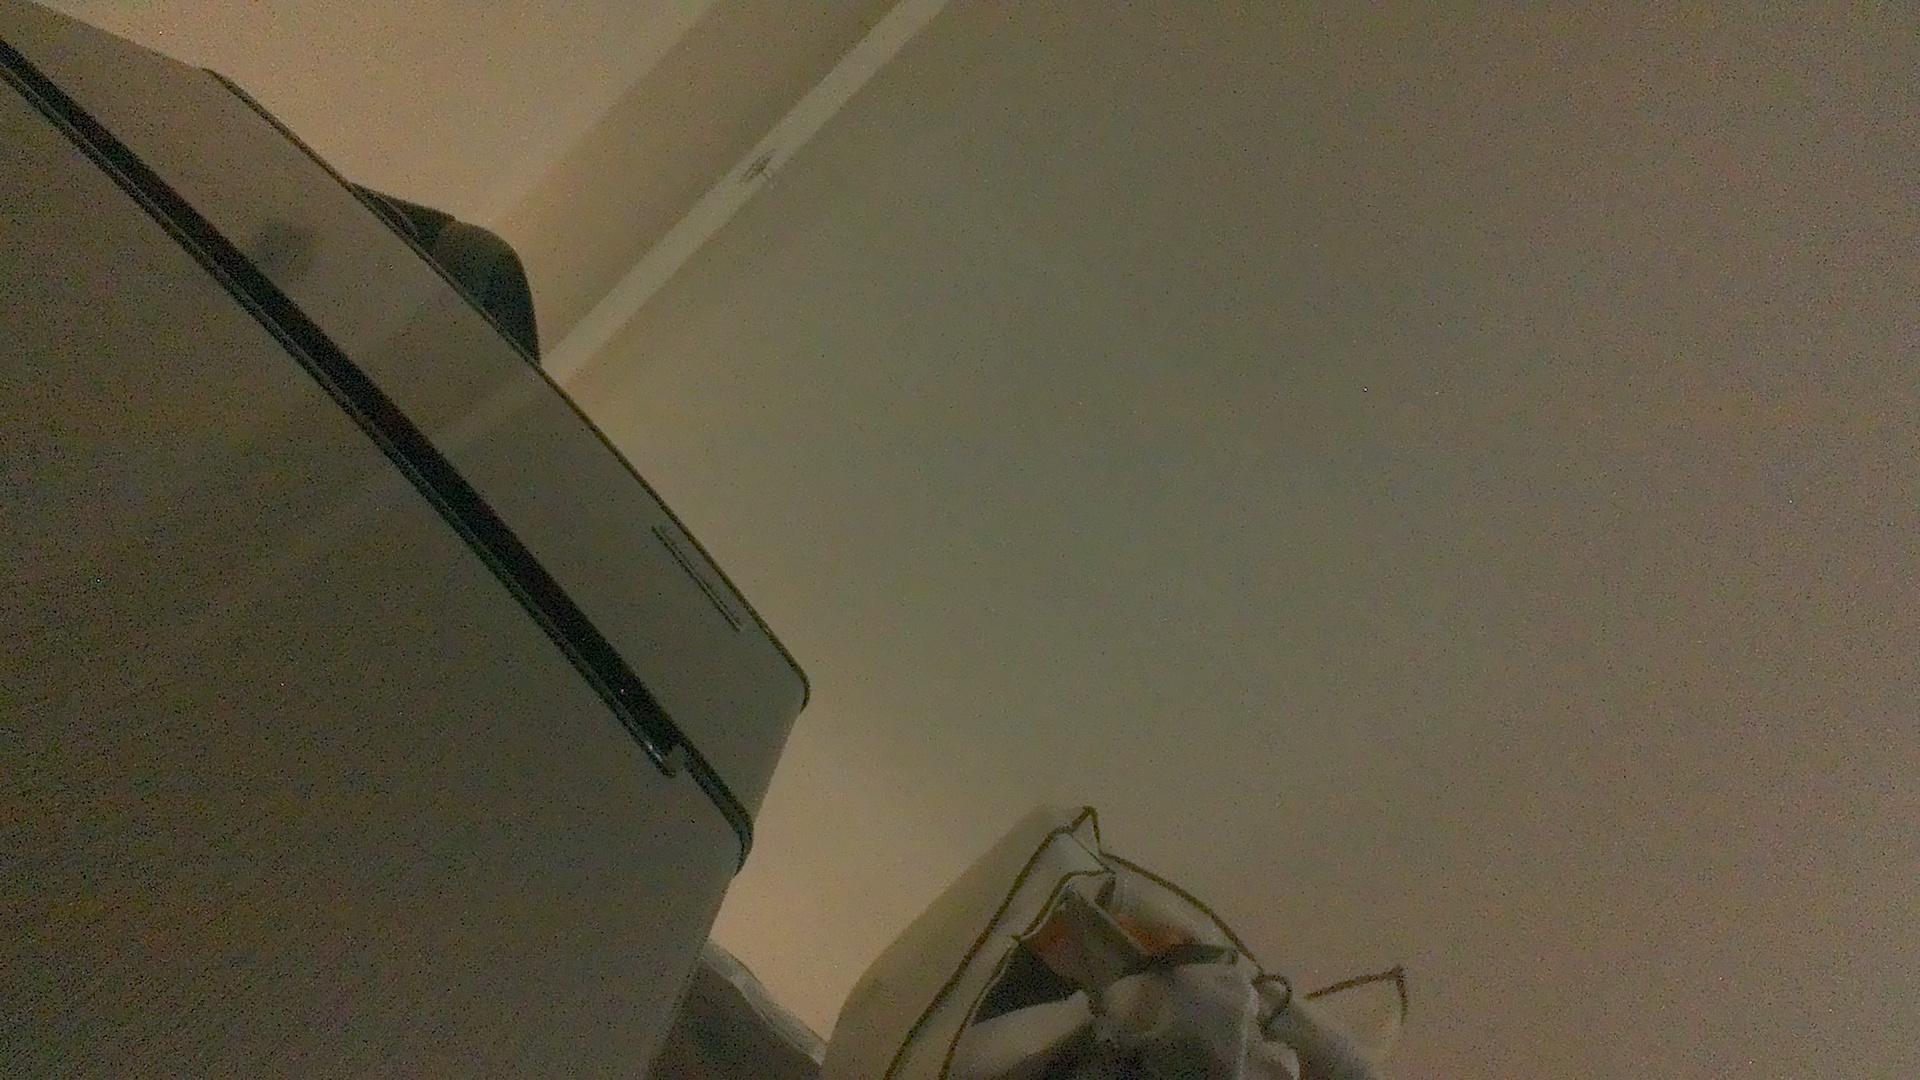
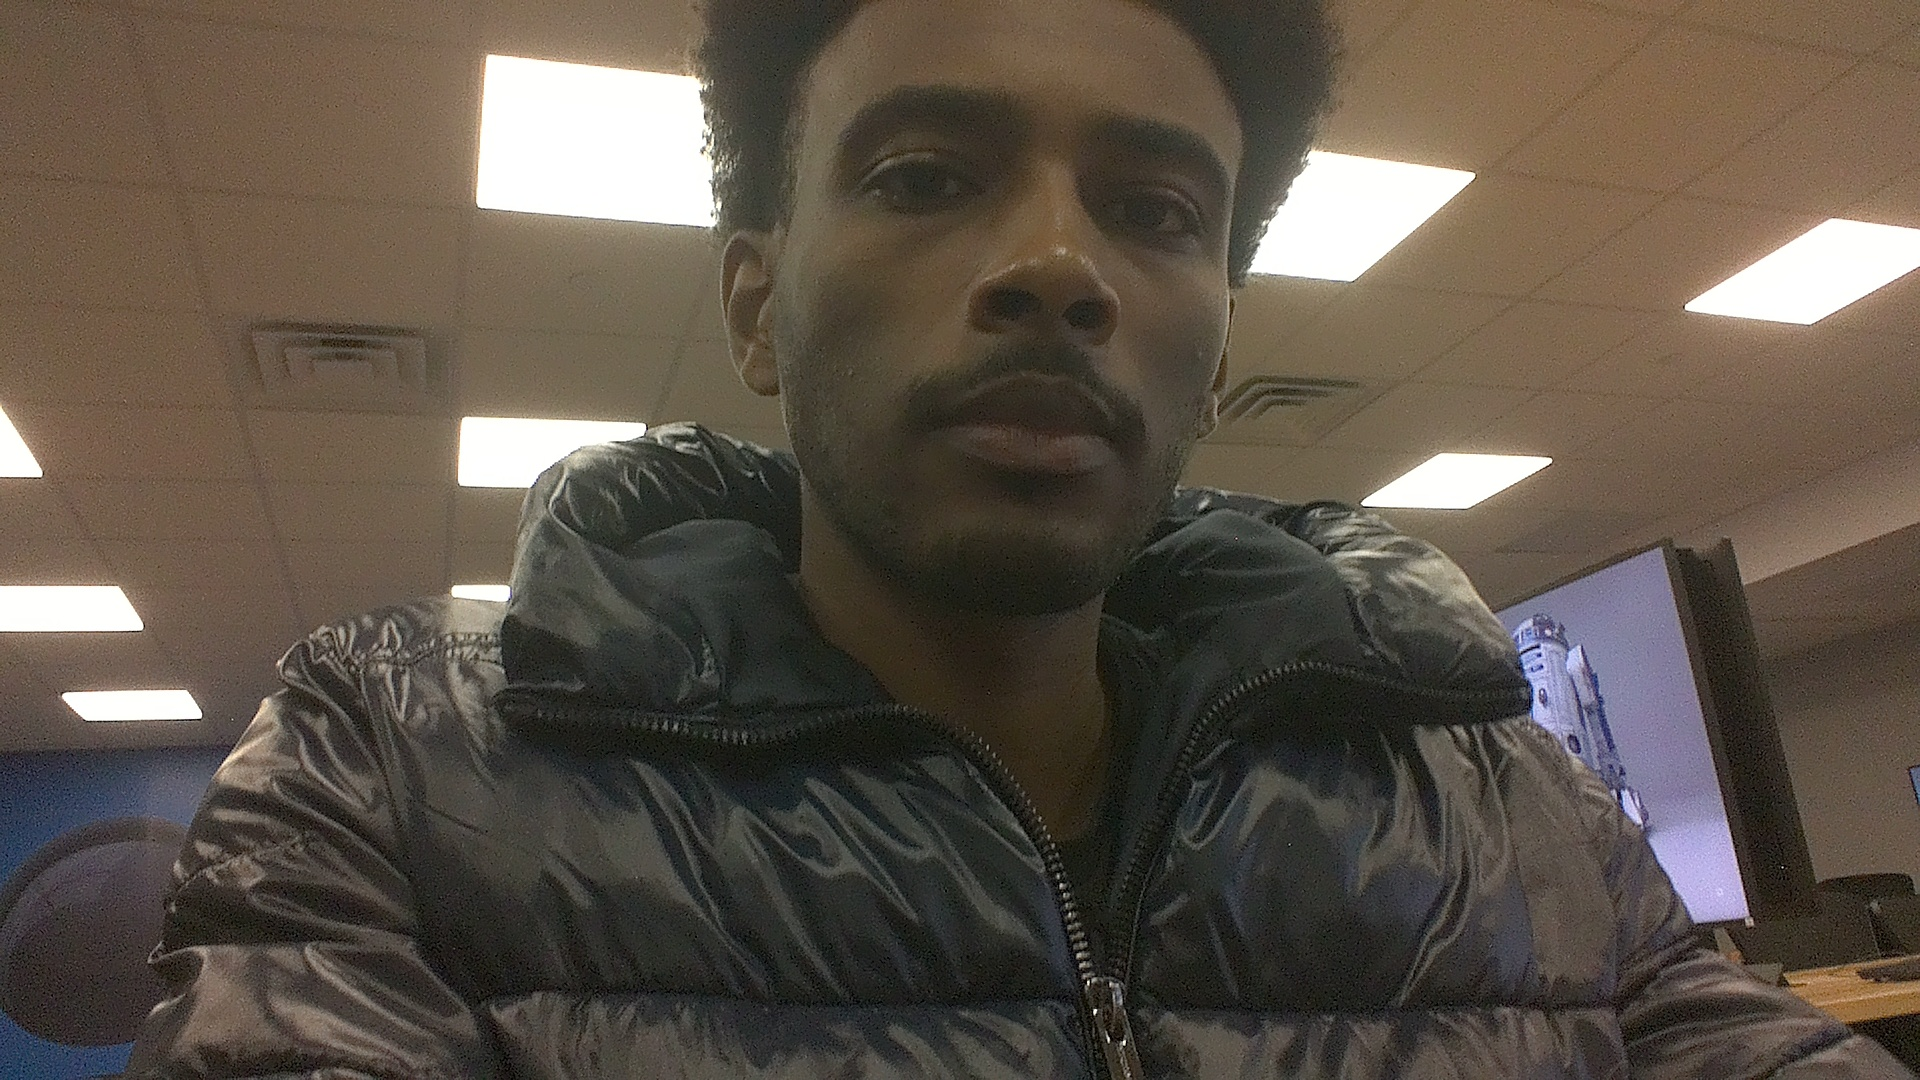
Complete Lab 7 camera analysis

diff --git a/lab07/frames.py b/lab07/frames.py
@@ -113,39 +113,176 @@ def grab_frame(pipeline: str, warmup_frames: int = 15) -> np.ndarray:
 ## Your work starts here ###
 ############################
 
+def _bytes_per_pixel(fmt: str) -> float:
+    table = {
+        # One byte of luma per pixel, plus a quarter of a byte of Cb and a
+        # quarter of a byte of Cr, because the chroma plane is half width and
+        # half height. NV12 interleaves the two chroma channels in one plane
+        # and I420 keeps them in two, which changes the layout and not the
+        # total, which is why both entries are the same number.
+        "nv12": 1.5,
+        "i420": 1.5,
+        # Ten bits per pixel on the wire: four pixels in five bytes. This is
+        # the only entry describing something that has not reached memory yet.
+        "raw10": 1.25,
+        "gray8": 1.0,
+        "rgb": 3.0,
+        "bgr": 3.0,
+        # The fourth byte is padding. It carries no information and it costs
+        # exactly as much to move as the three that do.
+        "bgrx": 4.0,
+    }
+    key = str(fmt).lower()
+    if key not in table:
+        raise FrameError(
+            f"format {fmt!r} is not one of {', '.join(FORMATS)}. If you meant "
+            "a format this lab does not price, add it here and say in your "
+            "paragraph what its bytes per pixel is and how you know."
+        )
+    return table[key]
+
+
+
+# ---------------------------------------------------------------------------
+# Hardware Capture & Pipeline Configuration
+# ---------------------------------------------------------------------------
+
+def gstreamer_pipeline(
+    capture_width: int = 1920,
+    capture_height: int = 1080,
+    display_width: int = 1920,
+    display_height: int = 1080,
+    framerate: int = 30,
+    flip_method: int = 0,
+) -> str:
+    return (
+        f"nvarguscamerasrc ! "
+        f"video/x-raw(memory:NVMM), width=(int){capture_width}, height=(int){capture_height}, "
+        f"format=(string)NV12, framerate=(fraction){framerate}/1 ! "
+        f"nvvidconv flip-method={flip_method} ! "
+        f"video/x-raw, width=(int){display_width}, height=(int){display_height}, format=(string)BGRx ! "
+        f"videoconvert ! "
+        f"video/x-raw, format=(string)BGR ! "
+        f"appsink drop=1"
+    )
+
+
+def grab_frame(pipeline: str, warmup_frames: int = 15) -> np.ndarray:
+    cap = cv2.VideoCapture(pipeline, cv2.CAP_GSTREAMER)
+    if not cap.isOpened():
+        raise RuntimeError("Failed to open camera via GStreamer pipeline.")
+
+    try:
+        # Warmup loop to allow sensor auto-exposure and AWB to converge
+        for _ in range(warmup_frames):
+            ret, _ = cap.read()
+            if not ret:
+                time.sleep(0.03)
+
+        ret, frame = cap.read()
+        if not ret or frame is None:
+            raise RuntimeError("Camera opened, but failed to capture a valid frame.")
+        return frame
+    finally:
+        cap.release()
+
+
+############################
+## Your work starts here ###
+############################
+
 def frame_bytes(width: int, height: int, fmt: str) -> int:
-    pass
+    from math import ceil
+
+    for name, value in (("width", width), ("height", height)):
+        if isinstance(value, bool) or not isinstance(value, int) or value <= 0:
+            raise FrameError(f"{name} must be a positive integer")
+    return ceil(width * height * _bytes_per_pixel(fmt))
 
 
 def bytes_per_second(width: int, height: int, fmt: str, fps: float) -> float:
-    pass
+    if not fps > 0:
+        raise FrameError("fps must be positive")
+    return float(frame_bytes(width, height, fmt) * fps)
 
 
 def frame_stats(pixels: Sequence[float] | Iterable[float]) -> dict[str, float]:
-    pass
+    values = [float(value) for value in pixels]
+    if not values:
+        raise FrameError("cannot calculate statistics without pixels")
+
+    minimum = min(values)
+    maximum = max(values)
+    count = len(values)
+    mean = sum(values) / count
+    variance = sum((value - mean) ** 2 for value in values) / count
+    return {
+        "min": minimum,
+        "max": maximum,
+        "mean": mean,
+        "spread": maximum - minimum,
+        "sd": variance ** 0.5,
+        "samples": float(count),
+    }
 
 
 def classify(stats: dict[str, float]) -> tuple[str, str]:
-    pass
+    for key in ("max", "spread", "mean"):
+        if key not in stats:
+            raise FrameError(f"missing statistic: {key}")
+
+    maximum = stats["max"]
+    spread = stats["spread"]
+    mean = stats["mean"]
+    if maximum <= BLACK_MAX:
+        return "black", f"maximum {maximum:.4f} is at or below {BLACK_MAX:.4f}."
+    if spread < FLAT_SPREAD:
+        return "flat", f"spread {spread:.4f} is below {FLAT_SPREAD:.4f}."
+    if mean < 0.10:
+        return "dark", f"mean {mean:.4f} is below 0.10. Structure exists, but exposure is low."
+    return "scene", f"mean {mean:.4f}, spread {spread:.4f}. Exposed and structured."
 
 
 def conversion_bytes(width: int, height: int, src: str, dst: str) -> int:
-    pass
+    if src.lower() == dst.lower():
+        return 0
+    read_bytes = frame_bytes(width, height, src)
+    write_bytes = frame_bytes(width, height, dst)
+    return read_bytes + write_bytes
 
 
 def resize_bytes(src_w: int, src_h: int, dst_w: int, dst_h: int,
                  fmt: str) -> int:
-    pass
+    read_bytes = frame_bytes(src_w, src_h, fmt)
+    write_bytes = frame_bytes(dst_w, dst_h, fmt)
+    return read_bytes + write_bytes
 
 
 def normalise_bytes(width: int, height: int, channels: int = 3,
                     out_bytes: int = 4) -> int:
-    pass
+    for name, value in (("width", width), ("height", height),
+                        ("channels", channels), ("out_bytes", out_bytes)):
+        if isinstance(value, bool) or not isinstance(value, int) or value <= 0:
+            raise FrameError(f"{name} must be a positive integer")
+    values = width * height * channels
+    read_bytes = values
+    write_bytes = values * out_bytes
+    return read_bytes + write_bytes
 
 
 def summarise_formats(width: int, height: int) -> list[dict[str, Any]]:
-    pass
-
+    rgb_bytes = frame_bytes(width, height, "rgb")
+    rows = []
+    for fmt in FORMATS:
+        size = frame_bytes(width, height, fmt)
+        rows.append({
+            "format": fmt,
+            "bytes_per_pixel": _bytes_per_pixel(fmt),
+            "bytes": size,
+            "relative_to_rgb": size / rgb_bytes,
+            "note": FORMAT_NOTES[fmt],
+        })
+    return rows
 
 ###############################
 ##### The main function #######
@@ -165,7 +302,7 @@ def main(
     # 1. Capture frame from hardware
     pipeline_str = gstreamer_pipeline()
     frame_bgr = grab_frame(pipeline_str)
-
+    
     # 2. Save captured image to disk
     cv2.imwrite(str(img_path), frame_bgr)
     height, width, _ = frame_bgr.shape
